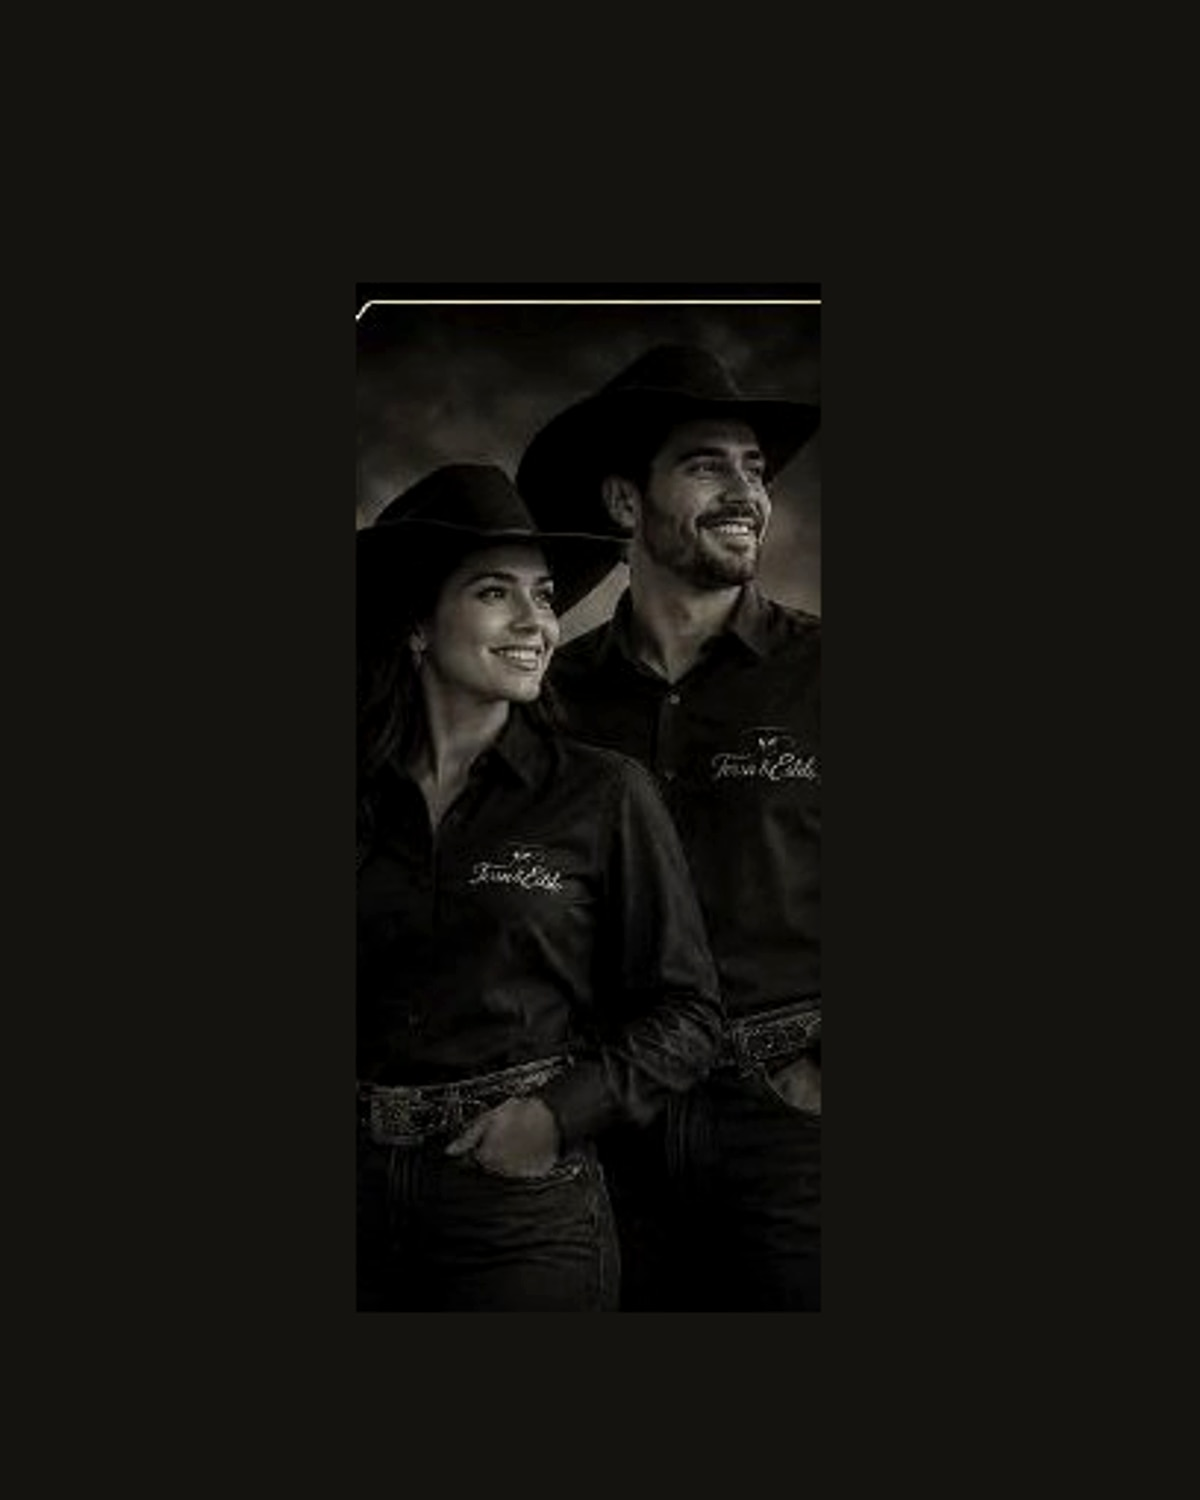
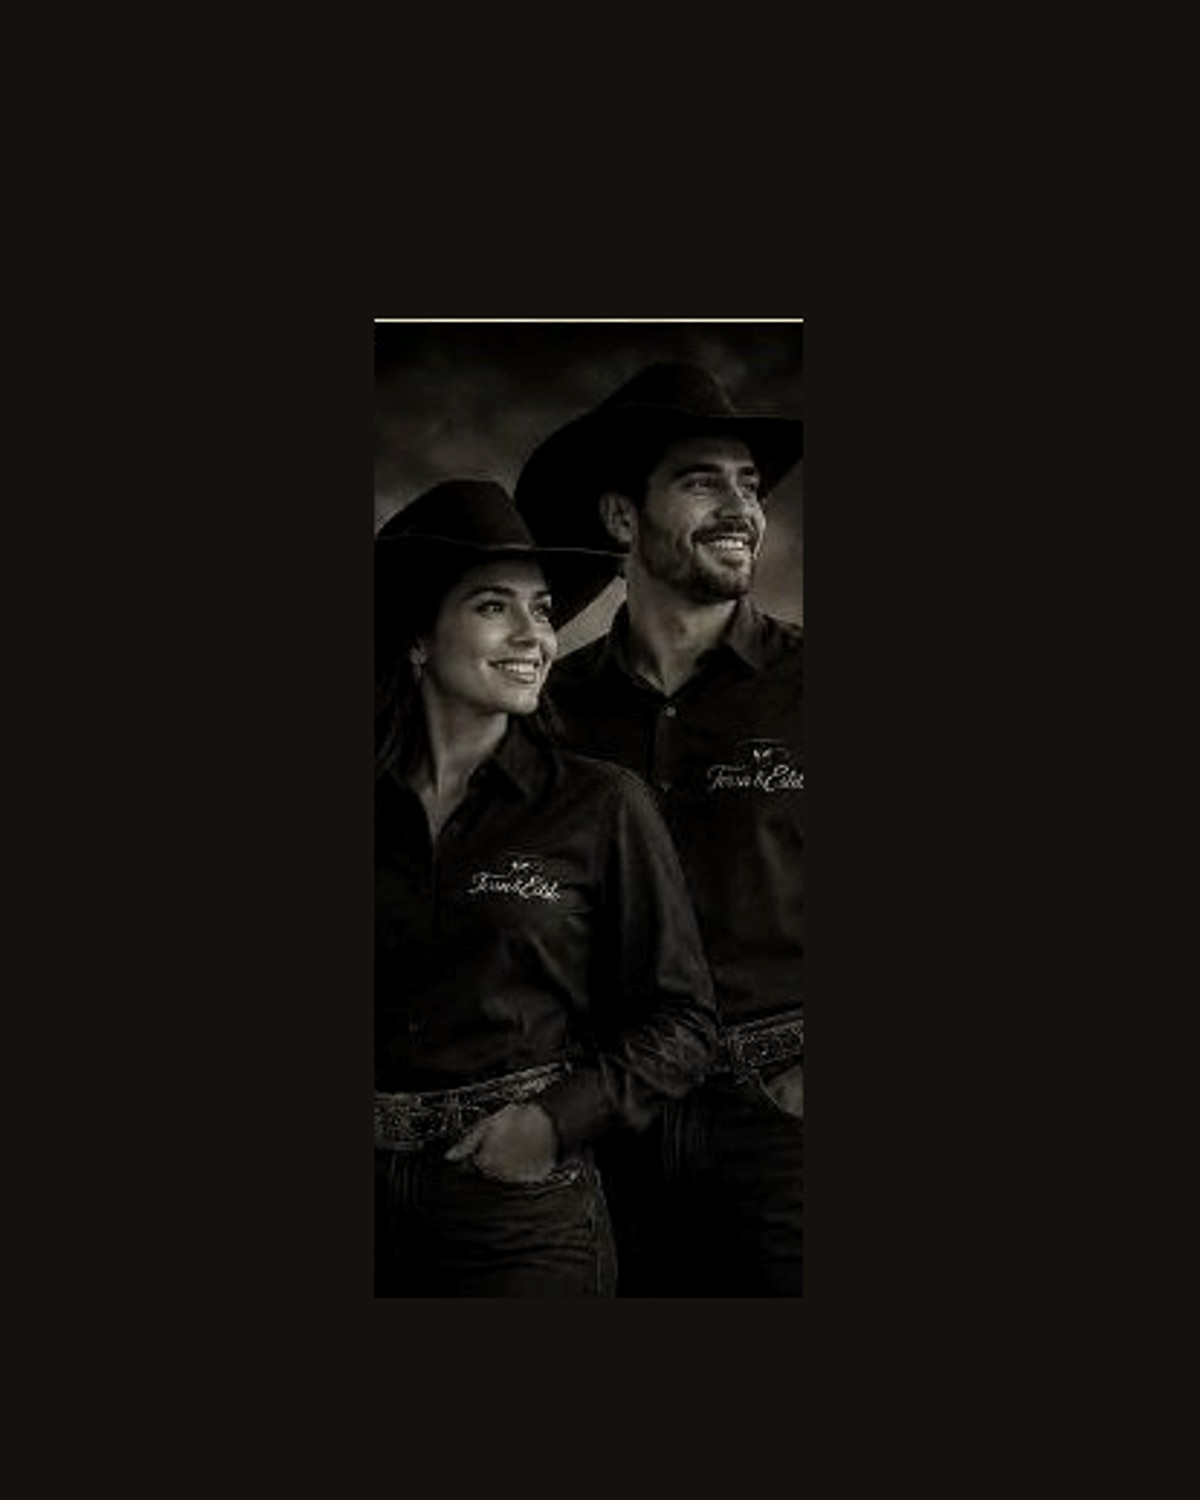
Ajuste

diff --git a/src/home.css b/src/home.css
@@ -986,7 +986,7 @@
   outline-offset: 2px;
 }
 
-/* ── Hero Section — first fold (desktop 55/45) ── */
+/* ── Hero Section — balanced models + content (~52/48) ── */
 .hero-section,
 .hero-section__inner,
 .hero-section__media,
@@ -1005,22 +1005,22 @@
   overflow: hidden;
   color: var(--white-soft);
   background:
-    radial-gradient(circle at 75% 25%, rgba(201, 162, 77, 0.12), transparent 36%),
-    linear-gradient(135deg, #171510 0%, #0f0f0f 50%, #15120d 100%);
+    radial-gradient(circle at 78% 28%, rgba(201, 162, 77, 0.1), transparent 34%),
+    linear-gradient(110deg, #11100d 0%, #17140f 50%, #0e0e0d 100%);
 }
 
 .hero-section__inner {
   position: relative;
   display: grid;
-  grid-template-columns: minmax(0, 55%) minmax(0, 45%);
-  align-items: stretch;
-  gap: clamp(24px, 3vw, 48px);
+  grid-template-columns: minmax(0, 1.08fr) minmax(0, 0.92fr);
+  align-items: center;
+  gap: clamp(48px, 6vw, 100px);
   min-height: 760px;
   height: auto;
   width: 100%;
-  max-width: 1440px;
+  max-width: 1600px;
   margin: 0 auto;
-  padding: 0 clamp(48px, 5vw, 72px);
+  padding: 64px clamp(32px, 5vw, 88px);
 }
 
 .hero-section__media {
@@ -1029,33 +1029,48 @@
   align-items: center;
   justify-content: center;
   min-width: 0;
-  min-height: 0;
+  min-height: 620px;
   width: 100%;
   height: auto;
-  max-height: 760px;
-  align-self: stretch;
-  overflow: hidden;
-  background: #15130f;
+  align-self: center;
+  overflow: visible;
+  background: transparent;
+}
+
+.hero-section__media::before {
+  content: '';
+  position: absolute;
+  inset: 7% 4%;
+  z-index: 0;
+  background: radial-gradient(
+    ellipse at center,
+    rgba(201, 162, 77, 0.1),
+    rgba(10, 10, 9, 0.2) 50%,
+    transparent 75%
+  );
+  border: 1px solid rgba(201, 162, 77, 0.16);
+  pointer-events: none;
 }
 
 .hero-section__image {
   position: relative;
-  z-index: 0;
+  z-index: 1;
   display: block;
-  width: 100%;
-  height: auto;
-  max-width: 100%;
-  max-height: 760px;
+  width: min(100%, 660px);
+  height: min(680px, 72vh);
+  margin: 0 auto;
   object-fit: contain;
-  object-position: center;
-  filter: brightness(1.15) contrast(1.03);
+  object-position: center center;
+  filter: brightness(1.12) contrast(1.04);
 }
 
 .hero-section__media-overlay {
   position: absolute;
   inset: 0;
-  background: linear-gradient(90deg, rgba(8, 8, 8, 0.12), rgba(8, 8, 8, 0.28));
+  z-index: 2;
+  background: linear-gradient(90deg, rgba(8, 8, 8, 0.04), rgba(8, 8, 8, 0.1));
   pointer-events: none;
+  opacity: 0.55;
 }
 
 .hero-section__panel {
@@ -1070,8 +1085,8 @@
   min-height: 0;
   width: 100%;
   height: auto;
-  align-self: stretch;
-  padding: 56px 48px;
+  align-self: center;
+  padding: 40px 20px;
   background: transparent;
   overflow: visible;
   animation: hero-fade-in 0.35s ease both;
@@ -1086,7 +1101,7 @@
   justify-content: center;
   text-align: center;
   width: 100%;
-  max-width: 580px;
+  max-width: 650px;
   margin-inline: auto;
 }
 
@@ -1094,14 +1109,14 @@
   position: absolute;
   inset: 0;
   pointer-events: none;
-  opacity: 0.2;
+  opacity: 0.16;
   background-image:
-    radial-gradient(1px 1px at 12% 22%, rgba(230, 201, 138, 0.45), transparent),
-    radial-gradient(1.5px 1.5px at 78% 18%, rgba(201, 162, 77, 0.35), transparent),
-    radial-gradient(1px 1px at 64% 72%, rgba(216, 181, 106, 0.3), transparent),
-    radial-gradient(1px 1px at 28% 84%, rgba(230, 201, 138, 0.28), transparent),
-    radial-gradient(1.5px 1.5px at 88% 58%, rgba(201, 162, 77, 0.28), transparent),
-    radial-gradient(1px 1px at 40% 40%, rgba(216, 181, 106, 0.22), transparent);
+    radial-gradient(1px 1px at 12% 22%, rgba(230, 201, 138, 0.4), transparent),
+    radial-gradient(1.5px 1.5px at 78% 18%, rgba(201, 162, 77, 0.3), transparent),
+    radial-gradient(1px 1px at 64% 72%, rgba(216, 181, 106, 0.25), transparent),
+    radial-gradient(1px 1px at 28% 84%, rgba(230, 201, 138, 0.22), transparent),
+    radial-gradient(1.5px 1.5px at 88% 58%, rgba(201, 162, 77, 0.22), transparent),
+    radial-gradient(1px 1px at 40% 40%, rgba(216, 181, 106, 0.18), transparent);
   background-size: 100% 100%;
 }
 
@@ -1120,15 +1135,16 @@
 }
 
 .hero-section__title {
-  margin: 0 auto 22px;
-  max-width: 560px;
+  margin: 0 auto 24px;
+  max-width: 650px;
   width: 100%;
   font-family: 'Cormorant Garamond', var(--font-serif);
-  font-size: clamp(42px, 4.2vw, 72px);
+  font-size: clamp(48px, 4.4vw, 78px);
   font-weight: 600;
   color: var(--white-soft);
   letter-spacing: 0.01em;
-  line-height: 1.04;
+  line-height: 1.02;
+  text-align: center;
   text-wrap: balance;
 }
 
@@ -1200,7 +1216,7 @@
 }
 
 .hero-brand-board {
-  margin: 0 auto 24px;
+  margin: 0 auto 28px;
   padding: 0;
   width: auto;
   max-width: none;
@@ -1215,8 +1231,8 @@
   padding: 0;
   border-radius: 50%;
   background: transparent;
-  border: 1px solid rgba(201, 162, 77, 0.35);
-  box-shadow: 0 0 30px rgba(201, 162, 77, 0.1);
+  border: none;
+  box-shadow: none;
 }
 
 .hero-brand-board__ring::after {
@@ -1225,13 +1241,14 @@
 
 .hero-brand-board__logo-img {
   display: block;
-  width: clamp(180px, 22vw, 310px);
+  width: clamp(220px, 22vw, 350px);
   height: auto;
   max-width: 100%;
   aspect-ratio: 1 / 1;
   object-fit: contain;
   object-position: center;
   border-radius: 50%;
+  filter: drop-shadow(0 0 24px rgba(201, 162, 77, 0.16));
 }
 
 @keyframes hero-fade-in {
@@ -2186,39 +2203,43 @@
 
   .hero-section__inner {
     grid-template-columns: 1fr;
-    gap: 0;
+    gap: 32px;
     min-height: 0;
     max-height: none;
-    padding: 0 clamp(20px, 4vw, 40px);
+    padding: 40px clamp(20px, 4vw, 40px) 48px;
   }
 
   .hero-section__media {
-    min-height: clamp(420px, 52vw, 480px);
-    max-height: none;
+    min-height: 0;
+  }
+
+  .hero-section__media::before {
+    inset: 4% 6%;
   }
 
   .hero-section__image {
-    max-height: 480px;
-    object-fit: contain;
-    object-position: center;
+    width: min(100%, 620px);
+    height: auto;
+    max-height: 680px;
   }
 
   .hero-section__media-overlay {
-    background: linear-gradient(180deg, rgba(8, 8, 8, 0.08), rgba(8, 8, 8, 0.32));
+    background: linear-gradient(180deg, rgba(8, 8, 8, 0.03), rgba(8, 8, 8, 0.12));
+    opacity: 0.5;
   }
 
   .hero-section__panel {
     align-items: center;
     text-align: center;
-    padding: 40px 24px 48px;
+    padding: 24px 16px 40px;
   }
 
   .hero-section__copy {
-    max-width: 580px;
+    max-width: 650px;
   }
 
   .hero-section__title {
-    max-width: 560px;
+    max-width: 650px;
   }
 
   .hero-section__support {
@@ -2236,6 +2257,10 @@
     flex: 1 1 auto;
   }
 
+  .hero-brand-board__logo-img {
+    width: clamp(200px, 28vw, 300px);
+  }
+
   .featured-collection__inner {
     grid-template-columns: 1fr;
     padding: 48px 0;
@@ -2249,40 +2274,6 @@
 @media (max-width: 960px) {
   .benefits-bar__grid {
     grid-template-columns: repeat(2, 1fr);
-  }
-
-  .hero-section {
-    min-height: 0;
-  }
-
-  .hero-section__inner {
-    grid-template-columns: 1fr;
-    gap: 0;
-    min-height: 0;
-    padding: 0 clamp(20px, 4vw, 40px);
-  }
-
-  .hero-section__media {
-    min-height: clamp(420px, 52vw, 480px);
-    max-height: none;
-  }
-
-  .hero-section__image {
-    max-height: 480px;
-    object-fit: contain;
-    object-position: center;
-  }
-
-  .hero-section__media-overlay {
-    background: linear-gradient(180deg, rgba(8, 8, 8, 0.08), rgba(8, 8, 8, 0.32));
-  }
-
-  .hero-section__panel {
-    padding: 40px 24px 48px;
-  }
-
-  .hero-brand-board__logo-img {
-    width: clamp(170px, 28vw, 260px);
   }
 }
 
